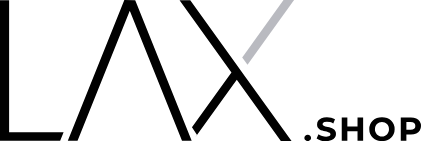
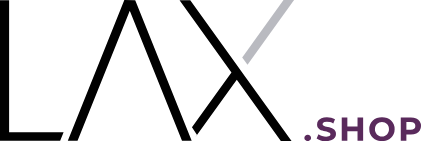
LAX Shop identity: aubergine accent and the .SHOP lockups (#662)
* Branding: LAX Shop takes aubergine, with a full and a compact Shop lockup

- PRODUCT_ACCENTS.shop is aubergine (#5a2a5c on light, #d6a8d4 on dark). Both
  pass 4.5:1 on every Shop surface, and violet is used by no status colour or
  other product.
- New shop-exchange lockup: the London Art Exchange wordmark unchanged, with
  the family tag .SHOP on a fourth line under Marylebone, set with the same
  outlines, weight, tracking and dot as .BID and .ID. The shop lockup (mark
  and .SHOP) is its compact form.
- Shop emails pick up the accent for the eyebrow dot and heading rule.
- The LAX colour rule in DESIGN_SYSTEM.md records Shop's accent and lockups.

* Shop: aubergine identity in the header, footer, links, focus and filter chips

- The desktop header shows the full Shop lockup 50px tall; phones and tablets
  show the mark and .SHOP. Header padding is trimmed so the bar keeps its
  height (104px desktop, 61px phone). The footer shows the full lockup at 60px.
- Links, focus rings, the active-nav underline and applied filter chips use
  the accent. Primary buttons stay ink, and status and error colours are
  unchanged.
- The applied filter chip gains a class hook so a product can style it.

* Shop emails: lockup with the aubergine .SHOP tag

The Shop lockup at the top of Shop emails is redrawn from the branding lockup,
so its .SHOP tag is aubergine like the eyebrow dot and heading rule.

* Account and sign-in: name LAX Shop in its aubergine
[…]

Changed region(s): [[0.7102, 0.8227, 1.0, 1.0]]

diff --git a/packages/branding/src/lockup/lockup.ts b/packages/branding/src/lockup/lockup.ts
@@ -36,14 +36,17 @@ import { TAGLINE_BOUNDS, TAGLINE_PATHS } from "./tagline-paths.js";
  */
 /**
  * `exchange` is the plain mark with the three-line "London / Art Exchange(R) / Marylebone" tagline,
- * the vector form of the wordmark Shop and Art show in their headers and footers.
+ * the vector form of the wordmark lax.art shows in its header and footer. `shop-exchange` is that
+ * wordmark with the family tag ".SHOP" on a fourth line under "Marylebone": LAX Shop's header and
+ * footer lockup. `shop` (the mark and ".SHOP") is its compact form, for phones.
  */
 export type LaxLockupKind =
   | "mark"
   | LaxBrandProduct
   | "bid-compact"
   | "account-compact"
-  | "exchange";
+  | "exchange"
+  | "shop-exchange";
 export type LaxLockupScheme = "light" | "dark";
 
 export type LockupPath = { d: string; transform?: string };
@@ -82,6 +85,7 @@ const LABELS: Readonly<Record<LaxLockupKind, string>> = {
   "bid-compact": "LAX Bid",
   exchange: "LAX London Art Exchange",
   shop: "LAX Shop",
+  "shop-exchange": "LAX Shop",
   art: "lax.art",
   account: "LAX Account",
   "account-compact": "LAX Account",
@@ -143,6 +147,38 @@ function setDescriptor(word: string): { paths: LockupPath[]; right: number } {
   return { paths, right };
 }
 
+/**
+ * The ".SHOP" line of `shop-exchange`: the family tag (same outlines, weight, tracking and dot as
+ * ".BID" and ".ID") moved under "Marylebone" and scaled as one. Measured in the plain-mark space:
+ *
+ * - The family name's cap height is 70.39 (Bid "Auction", Account "Account"); the London Art
+ *   Exchange name ("London") is 71.6, so the tag scales by 71.6 / 70.39 to keep its proportion.
+ * - The family dot starts 1.55 right of the text column (606.85 against 605.3); this wordmark's
+ *   text column starts at 635.
+ * - The family tag's cap top is 42.04 below the last name baseline; "Marylebone" sits on 279.8.
+ */
+const SHOP_TAG_SCALE = 71.6 / 70.39;
+const SHOP_TAG_TRANSFORM = {
+  dx: 635 + 1.55 * SHOP_TAG_SCALE - 606.85 * SHOP_TAG_SCALE,
+  dy:
+    279.8 + (42.04 + DESCRIPTOR_CAP_HEIGHT) * SHOP_TAG_SCALE - DESCRIPTOR_BASELINE * SHOP_TAG_SCALE,
+};
+
+function shopTagLine(): { paths: LockupPath[]; right: number; bottom: number } {
+  const { paths, right } = setDescriptor(LAX_LOCKUP_DESCRIPTORS.shop);
+  const { dx, dy } = SHOP_TAG_TRANSFORM;
+  const prefix = `translate(${round(dx)} ${round(dy)}) scale(${round(SHOP_TAG_SCALE)})`;
+  return {
+    paths: paths.map((path) => ({
+      d: path.d,
+      transform: path.transform ? `${prefix} ${path.transform}` : prefix,
+    })),
+    right: right * SHOP_TAG_SCALE + dx,
+    // The dot overshoots the baseline by about half a unit.
+    bottom: (DESCRIPTOR_BASELINE + 0.6) * SHOP_TAG_SCALE + dy,
+  };
+}
+
 const format = (value: number): string => String(Math.round(value * 100) / 100);
 
 function frame(width: number, y: number, height: number) {
@@ -179,6 +215,21 @@ export function laxLockup(kind: LaxLockupKind): LaxLockup {
       // The tagline is ink like the mark's strokes, so it follows the text colour with them.
       ink: [...markInk, ...plain(TAGLINE_PATHS)],
       descriptorPaths: [],
+    };
+  }
+
+  if (kind === "shop-exchange") {
+    const tag = shopTagLine();
+    const top = Math.floor(TAGLINE_BOUNDS.y) - EXCHANGE_FRAME_PAD;
+    const bottom = Math.ceil(Math.max(TAGLINE_BOUNDS.bottom, tag.bottom)) + EXCHANGE_FRAME_PAD;
+    const right = Math.ceil(Math.max(TAGLINE_BOUNDS.right, tag.right)) + EXCHANGE_FRAME_PAD;
+    return {
+      ...base,
+      mist: plain(LAX_MARK_MIST_PATHS),
+      descriptor: LAX_LOCKUP_DESCRIPTORS.shop,
+      ...frame(right, top, bottom - top),
+      ink: [...markInk, ...plain(TAGLINE_PATHS)],
+      descriptorPaths: tag.paths,
     };
   }
 
@@ -251,6 +302,15 @@ const BID_DESCRIPTOR: Readonly<Record<LaxLockupScheme, string>> = {
  * product has no accent. Bid keeps the navy of its master, which is a touch lighter than
  * `PRODUCT_ACCENTS.bid`.
  */
+/** The product whose accent colours a lockup's descriptor. */
+function accentProduct(
+  kind: Exclude<LaxLockupKind, "mark" | "exchange" | "bid" | "bid-compact">,
+): LaxBrandProduct {
+  if (kind === "account-compact") return "account";
+  if (kind === "shop-exchange") return "shop";
+  return kind;
+}
+
 export function laxLockupColors(kind: LaxLockupKind, scheme: LaxLockupScheme): LaxLockupColors {
   const ink = INK[scheme];
   const accent =
@@ -259,8 +319,8 @@ export function laxLockupColors(kind: LaxLockupKind, scheme: LaxLockupScheme): L
       : kind === "bid" || kind === "bid-compact"
         ? BID_DESCRIPTOR[scheme]
         : scheme === "light"
-          ? PRODUCT_ACCENTS[kind === "account-compact" ? "account" : kind]
-          : PRODUCT_ACCENTS_ON_DARK[kind === "account-compact" ? "account" : kind];
+          ? PRODUCT_ACCENTS[accentProduct(kind)]
+          : PRODUCT_ACCENTS_ON_DARK[accentProduct(kind)];
   return { ink, mist: MIST, descriptor: accent ?? ink };
 }
 
@@ -294,6 +354,7 @@ export const LAX_LOCKUP_KINDS: readonly LaxLockupKind[] = [
   "bid",
   "bid-compact",
   "shop",
+  "shop-exchange",
   "art",
   "account",
   "account-compact",

diff --git a/apps/shop/src/app/base.css b/apps/shop/src/app/base.css
@@ -29,9 +29,11 @@
   --color-on-background: var(--color-on-surface);
   --color-primary: var(--color-brand-obsidian);
   --color-on-primary: #ffffff;
-  /* LAX colour rule (docs/DESIGN_SYSTEM.md): shared neutrals only; navy is Bid's accent.
-     LAX Shop has no accent yet, so the product accent is the primary neutral. */
-  --color-product-accent: var(--color-primary);
+  /* LAX colour rule (docs/DESIGN_SYSTEM.md): Shop's accent is aubergine (PRODUCT_ACCENTS.shop in
+     @auction/branding). It colours the .SHOP tag, the active-nav bar, links, focus rings and
+     selected filter chips. Primary buttons stay ink and status colours never take it.
+     10.9:1 on white, 9.4:1 on #eeeeee. */
+  --color-product-accent: #5a2a5c;
   --color-secondary: var(--color-brand-ink);
   --color-on-secondary: #ffffff;
   --color-secondary-container: var(--color-surface-container-low);
@@ -67,9 +69,9 @@
     var(--color-brand-obsidian) 20%,
     var(--color-outline-variant)
   );
-  /* Links stay underlined (they share the text colour), so colour is never the only cue. */
-  --color-link: var(--color-brand-obsidian);
-  --color-ring: var(--color-brand-obsidian);
+  /* Links take the accent and stay underlined, so colour is never the only cue. */
+  --color-link: var(--color-product-accent);
+  --color-ring: var(--color-product-accent);
   --color-cta-bg: var(--color-brand-obsidian);
   --color-cta-on: var(--color-brand-light-cream);
   --color-border-hairline: color-mix(in srgb, var(--color-brand-light-gray) 60%, white);
@@ -258,7 +260,8 @@ html.dark {
   --color-on-primary: var(--color-brand-obsidian);
   --color-cta-bg: var(--color-brand-light-cream);
   --color-cta-on: var(--color-brand-obsidian);
-  --color-product-accent: var(--color-primary);
+  /* Light aubergine on dark surfaces: 9.2:1 on #121414, 6.7:1 on #2d2f2e. */
+  --color-product-accent: #d6a8d4;
   --color-secondary: var(--color-brand-light-cream);
   --color-on-secondary: var(--color-brand-obsidian);
   --color-secondary-container: var(--color-surface-container);
@@ -295,8 +298,8 @@ html.dark {
     var(--color-surface)
   );
   --color-alert-border: color-mix(in srgb, var(--color-outline-variant) 70%, transparent);
-  --color-link: var(--color-brand-light-cream);
-  --color-ring: var(--color-brand-light-cream);
+  --color-link: var(--color-product-accent);
+  --color-ring: var(--color-product-accent);
   --color-border-hairline: color-mix(in srgb, var(--color-outline-variant) 40%, transparent);
   --color-input-border: #858585;
   --color-control-border-hover: #b3b3b3;

diff --git a/packages/branding/tests/lockup.test.ts b/packages/branding/tests/lockup.test.ts
@@ -179,13 +179,38 @@ describe("laxLockupColors", () => {
     expect(laxLockupColors("bid", "dark").descriptor).toBe("#b9bac0");
   });
 
-  it("gives Shop and Art the neutral ink until their accents are chosen", () => {
-    for (const product of ["shop", "art"] as const) {
-      for (const scheme of SCHEMES) {
-        const colors = laxLockupColors(product, scheme);
-        expect(colors.descriptor).toBe(colors.ink);
-      }
+  it("gives Art the neutral ink until its accent is chosen", () => {
+    for (const scheme of SCHEMES) {
+      const colors = laxLockupColors("art", scheme);
+      expect(colors.descriptor).toBe(colors.ink);
     }
+  });
+
+  it("sets Shop's tag in aubergine, in both Shop lockups", () => {
+    for (const kind of ["shop", "shop-exchange"] as const) {
+      expect(laxLockupColors(kind, "light").descriptor).toBe("#5a2a5c");
+      expect(laxLockupColors(kind, "dark").descriptor).toBe("#d6a8d4");
+    }
+  });
+});
+
+describe("shop-exchange lockup", () => {
+  it("is the London Art Exchange wordmark unchanged, with the family .SHOP tag on a fourth line", () => {
+    const exchange = laxLockup("exchange");
+    const shop = laxLockup("shop-exchange");
+    expect(shop.ink).toEqual(exchange.ink);
+    expect(shop.mist).toEqual(exchange.mist);
+    // The tag is the family's own outlines (the compact Shop lockup's), moved and scaled as one.
+    expect(shop.descriptorPaths.map((path) => path.d)).toEqual(
+      laxLockup("shop").descriptorPaths.map((path) => path.d),
+    );
+    const [, top, , height] = shop.viewBox.split(" ").map(Number);
+    const [, exchangeTop, , exchangeHeight] = exchange.viewBox.split(" ").map(Number);
+    expect(top).toBe(exchangeTop);
+    // Marylebone ends near 293; the tag line adds about 77 units below it.
+    expect((top ?? 0) + (height ?? 0)).toBeGreaterThan(
+      (exchangeTop ?? 0) + (exchangeHeight ?? 0) + 70,
+    );
   });
 });
 

diff --git a/apps/account/src/app/globals.css b/apps/account/src/app/globals.css
@@ -35,11 +35,12 @@
   /* Links stay neutral and underlined (they share the text colour), so colour is never the only cue. */
   --color-link: var(--brand-obsidian);
   --color-ring: var(--color-product-accent);
-  /* Product names (the ProductName component): each product in its own lockup's accent, Shop and
-     Art in ink until they choose one. Bid's navy is allowed here and nowhere else in Account, so
+  /* Product names (the ProductName component): each product in its own lockup's accent, lax.art
+     in ink until it chooses one. Bid's navy is allowed here and nowhere else in Account, so
      naming Bid is the only place it shows; Account's own controls never use it. */
   --color-product-bid: var(--brand-midnight);
-  --color-product-shop: var(--color-on-surface);
+  /* Shop's aubergine (PRODUCT_ACCENTS.shop): 10.9:1 on white. */
+  --color-product-shop: #5a2a5c;
   --color-product-art: var(--color-on-surface);
   --color-product-account: var(--color-product-accent);
   /* Edge of a text field or select: 3.45:1 on white and 3.11:1 on the low surface, so the field
@@ -88,6 +89,8 @@ html.dark {
   --color-link: var(--brand-light-cream);
   --color-ring: var(--color-product-accent);
   --color-product-bid: var(--brand-midnight-on-dark);
+  /* Light aubergine (PRODUCT_ACCENTS_ON_DARK.shop): 9.2:1 on #121414, 5.7:1 on #383a39. */
+  --color-product-shop: #d6a8d4;
   /* 3.60:1 on the dark surface. */
   --color-control-border: #73736f;
   --color-surface-container: #333534;

diff --git a/apps/shop/src/components/header/shop-header.client.tsx b/apps/shop/src/components/header/shop-header.client.tsx
@@ -78,7 +78,7 @@ export function ShopHeaderClient({
       >
         <div
           className={cn(
-            "mx-auto flex max-w-[var(--container-max,1440px)] flex-col gap-4 py-2 lg:gap-4 lg:pt-3 lg:pb-4",
+            "mx-auto flex max-w-[var(--container-max,1440px)] flex-col gap-4 py-2 lg:gap-4 lg:pt-2 lg:pb-[0.8125rem]",
             MARKETING_PAGE_GUTTER_X,
           )}
         >
@@ -103,7 +103,11 @@ export function ShopHeaderClient({
                 className={cn("min-w-[76px] shrink-0 rounded-sm", FOCUS_RING)}
                 aria-label="LAX Shop home"
               >
-                <LaxLogo kind="shop" className="shop-header__logo" />
+                <LaxLogo kind="shop" className="shop-header__logo shop-header__logo--compact" />
+                <LaxLogo
+                  kind="shop-exchange"
+                  className="shop-header__logo shop-header__logo--full"
+                />
               </Link>
             }
             trailing={

diff --git a/packages/branding/src/brand-identity.ts b/packages/branding/src/brand-identity.ts
@@ -32,7 +32,8 @@ export type LaxBrandProduct = "bid" | "shop" | "art" | "account";
  */
 export const PRODUCT_ACCENTS: Readonly<Record<LaxBrandProduct, string | null>> = {
   bid: BRAND_COLORS.midnight,
-  shop: null,
+  /** Aubergine: 10.9:1 on white, 9.4:1 on #eeeeee. Owner choice 2026-10-26; never a status colour. */
+  shop: "#5a2a5c",
   art: null,
   /** Deep teal: AA text colour on white (5.47:1). Never a success colour; see PRODUCT_ACCENTS_ON_DARK. */
   account: "#0f766e",
@@ -49,7 +50,8 @@ export const PRODUCT_ACCENTS_ON_DARK: Readonly<Record<LaxBrandProduct, string | 
    * master's light-grey descriptor; this is for the product's name set as text.
    */
   bid: "#a5b7e9",
-  shop: null,
+  /** Light aubergine: 9.2:1 on the Shop dark page #121414, 6.7:1 on #2d2f2e. */
+  shop: "#d6a8d4",
   art: null,
   /** Bright teal: about 10:1 on the Account dark page surface. */
   account: "#2dd4bf",

diff --git a/apps/shop/src/app/header.css b/apps/shop/src/app/header.css
@@ -3,6 +3,33 @@
   height: 2.5rem;
 }
 
+/* Phones and tablets show the compact lockup (the mark and .SHOP); desktop shows the full
+   London Art Exchange lockup with .SHOP, 50px tall so its smallest line stays near 9px. The
+   header's padding is trimmed on desktop so the bar keeps its height. */
+.lax-logo.shop-header__logo--full {
+  display: none;
+}
+
+.shop-header__logo--full .lax-lockup {
+  height: 3.125rem;
+}
+
+@media (min-width: 64rem) {
+  .lax-logo.shop-header__logo--compact {
+    display: none;
+  }
+
+  .lax-logo.shop-header__logo--full {
+    display: block;
+  }
+}
+
+/* The active and open nav item carries Shop's accent underline. */
+.site-header-mega-trigger[aria-current="page"],
+.site-header-mega-trigger[aria-expanded="true"] {
+  border-bottom-color: var(--color-product-accent);
+}
+
 .shop-header__utility-form {
   display: inline;
   margin: 0;

diff --git a/packages/auth/src/hosted-auth/styles.ts b/packages/auth/src/hosted-auth/styles.ts
@@ -35,7 +35,7 @@ ${fontFace("Outfit", HOSTED_FONT_FILES.outfit)}
   --color-success: ${t.successOnLight};
   --color-ring: ${t.accent};
   --color-product-bid: ${t.productBid};
-  --color-product-shop: ${t.ink};
+  --color-product-shop: ${t.productShop};
   --color-product-art: ${t.ink};
   --color-scrim-auth: rgba(0, 0, 0, 0.07);
   --auth-column: 528px;
@@ -63,7 +63,7 @@ ${fontFace("Outfit", HOSTED_FONT_FILES.outfit)}
     --color-success: #56d364;
     --color-ring: ${t.accentOnDark};
     --color-product-bid: ${t.productBidOnDark};
-    --color-product-shop: ${t.lightCream};
+    --color-product-shop: ${t.productShopOnDark};
     --color-product-art: ${t.lightCream};
     --color-scrim-auth: rgba(255, 255, 255, 0.06);
   }

diff --git a/apps/shop/src/app/elements.css b/apps/shop/src/app/elements.css
@@ -25,6 +25,17 @@
   font-weight: 600;
 }
 
+/* Applied filter chips carry Shop's accent: a full-strength edge (well over 3:1) on a light tint;
+   the label stays in the text colour. */
+.catalog-filter-chip.catalog-filter-chip {
+  border-color: var(--color-product-accent);
+  background-color: color-mix(in srgb, var(--color-product-accent) 8%, var(--color-surface));
+}
+
+.catalog-filter-chip.catalog-filter-chip:hover {
+  background-color: color-mix(in srgb, var(--color-product-accent) 14%, var(--color-surface));
+}
+
 /* Form controls: text inputs, search, selects and textareas. */
 .shop-field {
   min-height: var(--shop-control-height);

diff --git a/packages/branding/src/lockup/lockup-copies.ts b/packages/branding/src/lockup/lockup-copies.ts
@@ -19,7 +19,7 @@ export type LockupCopy = {
 export const LOCKUP_COPIES: readonly LockupCopy[] = [
   { path: "packages/branding/public/lax-logo.svg", kind: "exchange", variant: "light" },
   { path: "apps/art/public/brand/lax-logo.svg", kind: "exchange", variant: "light" },
-  { path: "apps/shop/public/shop/lax-shop-logo.svg", kind: "exchange", variant: "light" },
+  { path: "apps/shop/public/shop/lax-shop-logo.svg", kind: "shop-exchange", variant: "light" },
   { path: "apps/web/public/logo.svg", kind: "bid", variant: "light" },
   { path: "apps/web/public/logo-light.svg", kind: "bid", variant: "dark" },
 ];

diff --git a/packages/marketing-ui/src/catalog-active-filter-chips.tsx b/packages/marketing-ui/src/catalog-active-filter-chips.tsx
@@ -32,7 +32,7 @@ export function CatalogActiveFilterChips({
   if (chips.length === 0) return null;
 
   const chipClassName = cn(
-    "inline-flex min-h-11 items-center gap-1.5 rounded-full border border-primary/30 bg-primary/10 px-3 py-1.5 font-body text-sm font-medium text-on-surface hover:border-link/50 disabled:opacity-60",
+    "catalog-filter-chip inline-flex min-h-11 items-center gap-1.5 rounded-full border border-primary/30 bg-primary/10 px-3 py-1.5 font-body text-sm font-medium text-on-surface hover:border-link/50 disabled:opacity-60",
     FOCUS_RING,
   );
 

diff --git a/packages/branding/src/tokens.ts b/packages/branding/src/tokens.ts
@@ -63,7 +63,8 @@ export type EmailCategory = "account" | "auction" | "finance" | "alert" | "admin
 
 /**
  * Accent for an email's eyebrow dot and heading rule: the sending product's accent (Bid navy,
- * Account teal), or ink for products without one (Shop, lax.art). Alerts keep the status red.
+ * Shop aubergine, Account teal), or ink for products without one (lax.art). Alerts keep the status
+ * red.
  */
 export function emailAccentColor(product: LaxBrandProduct, category: EmailCategory): string {
   if (category === "alert") return COLORS.red;
